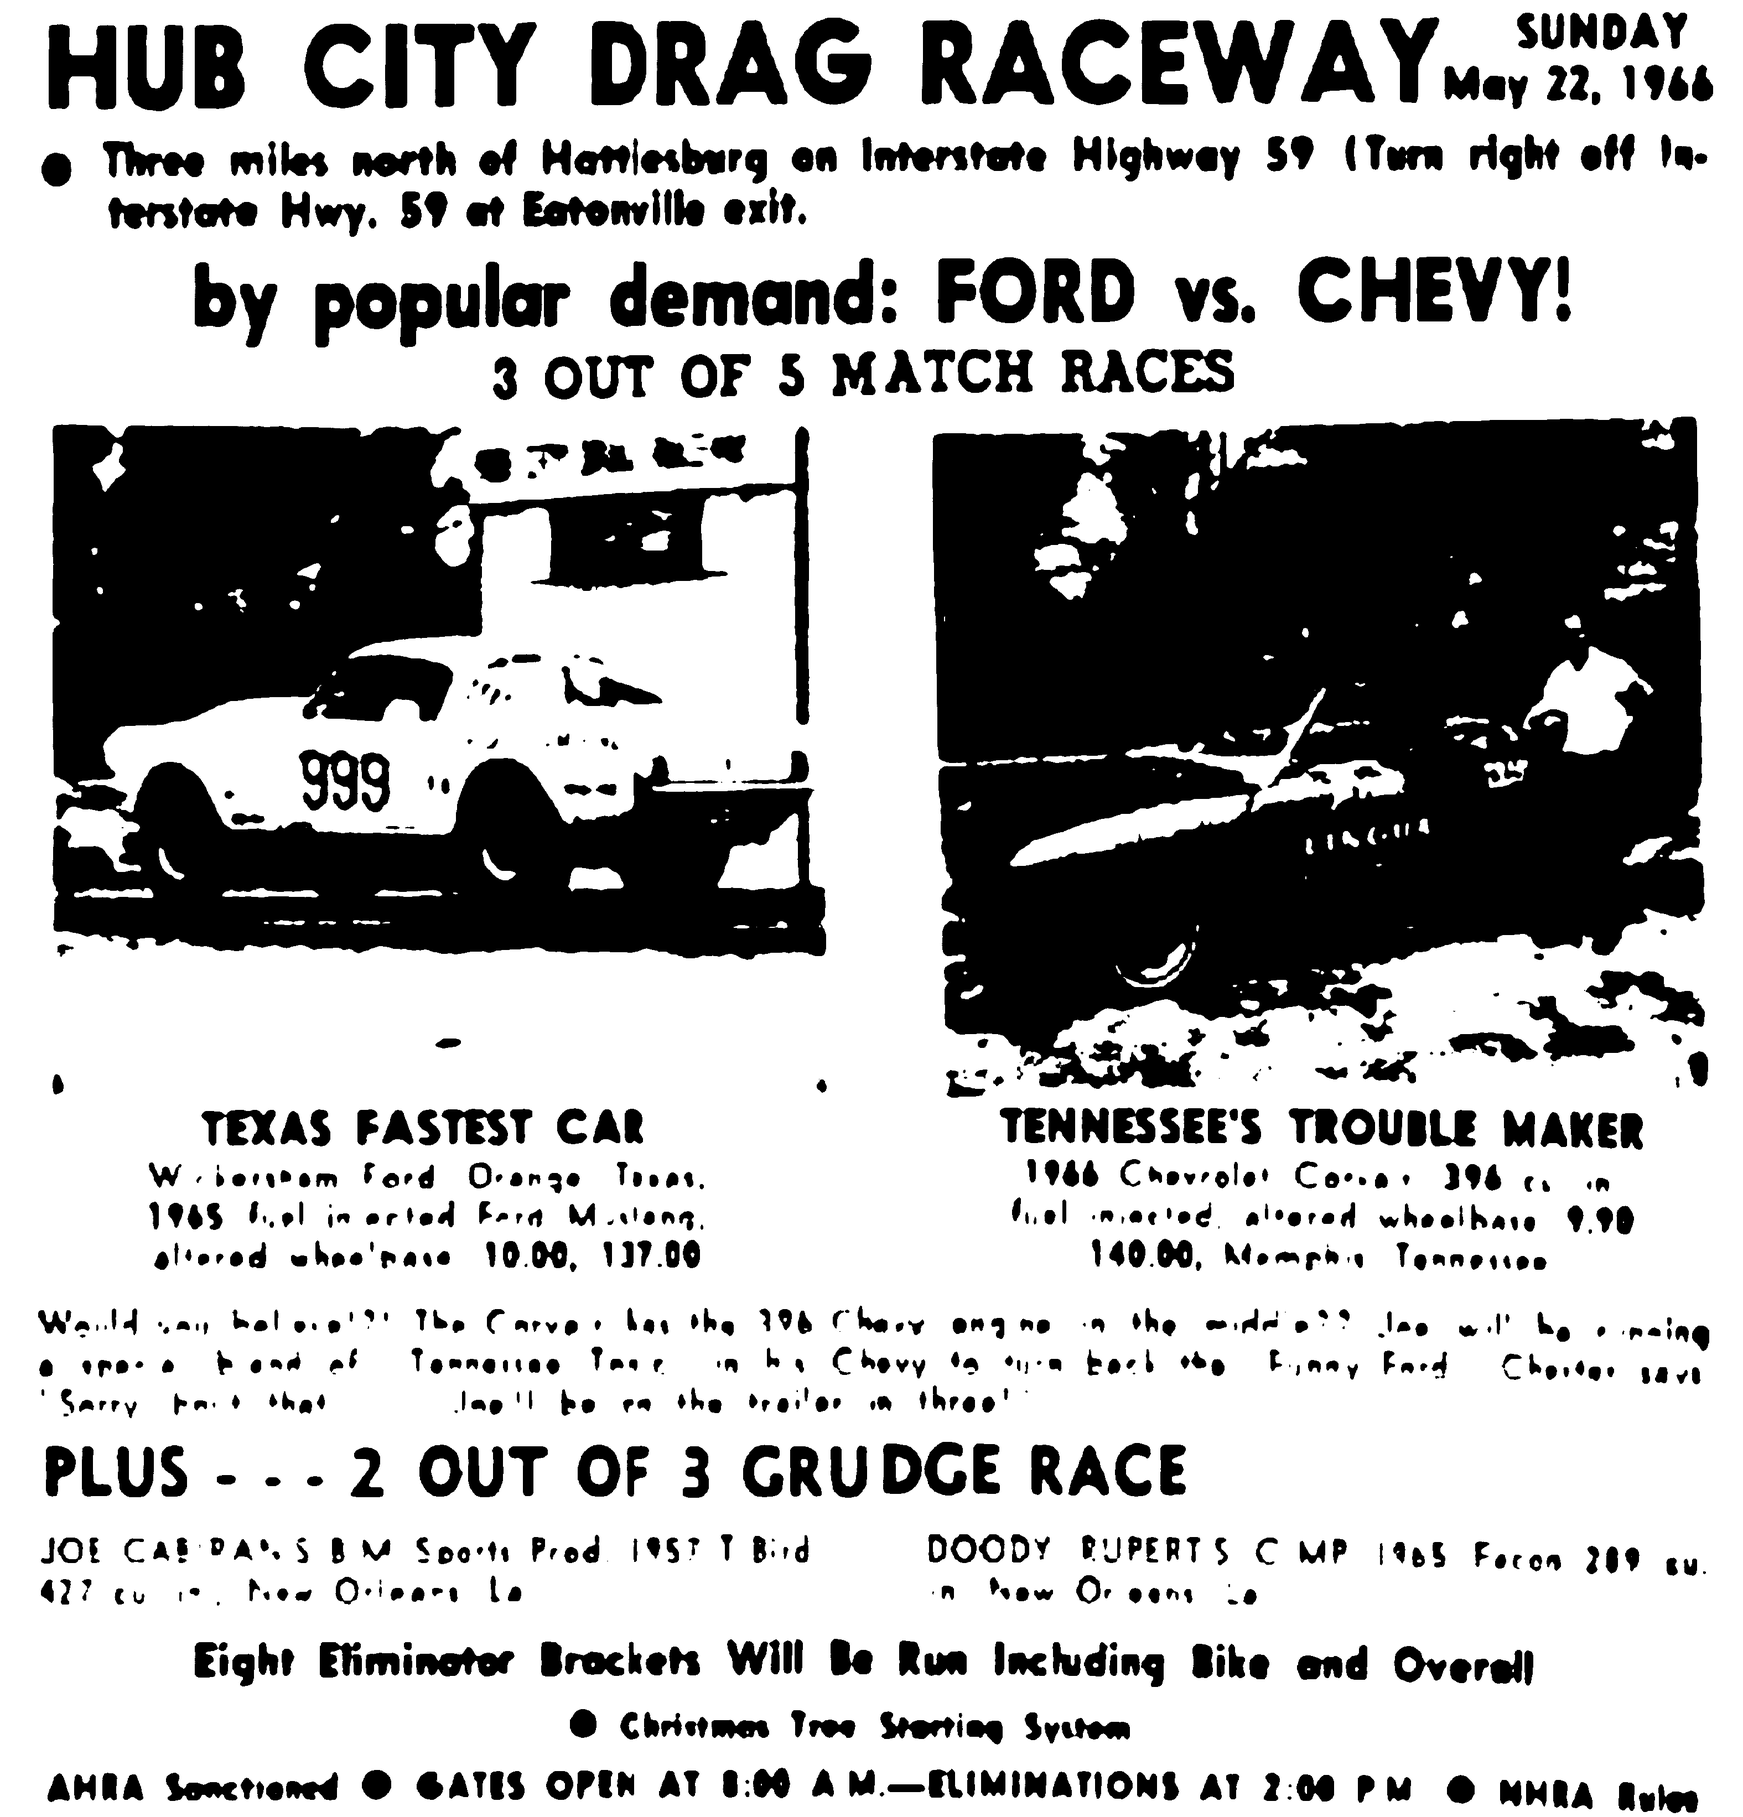
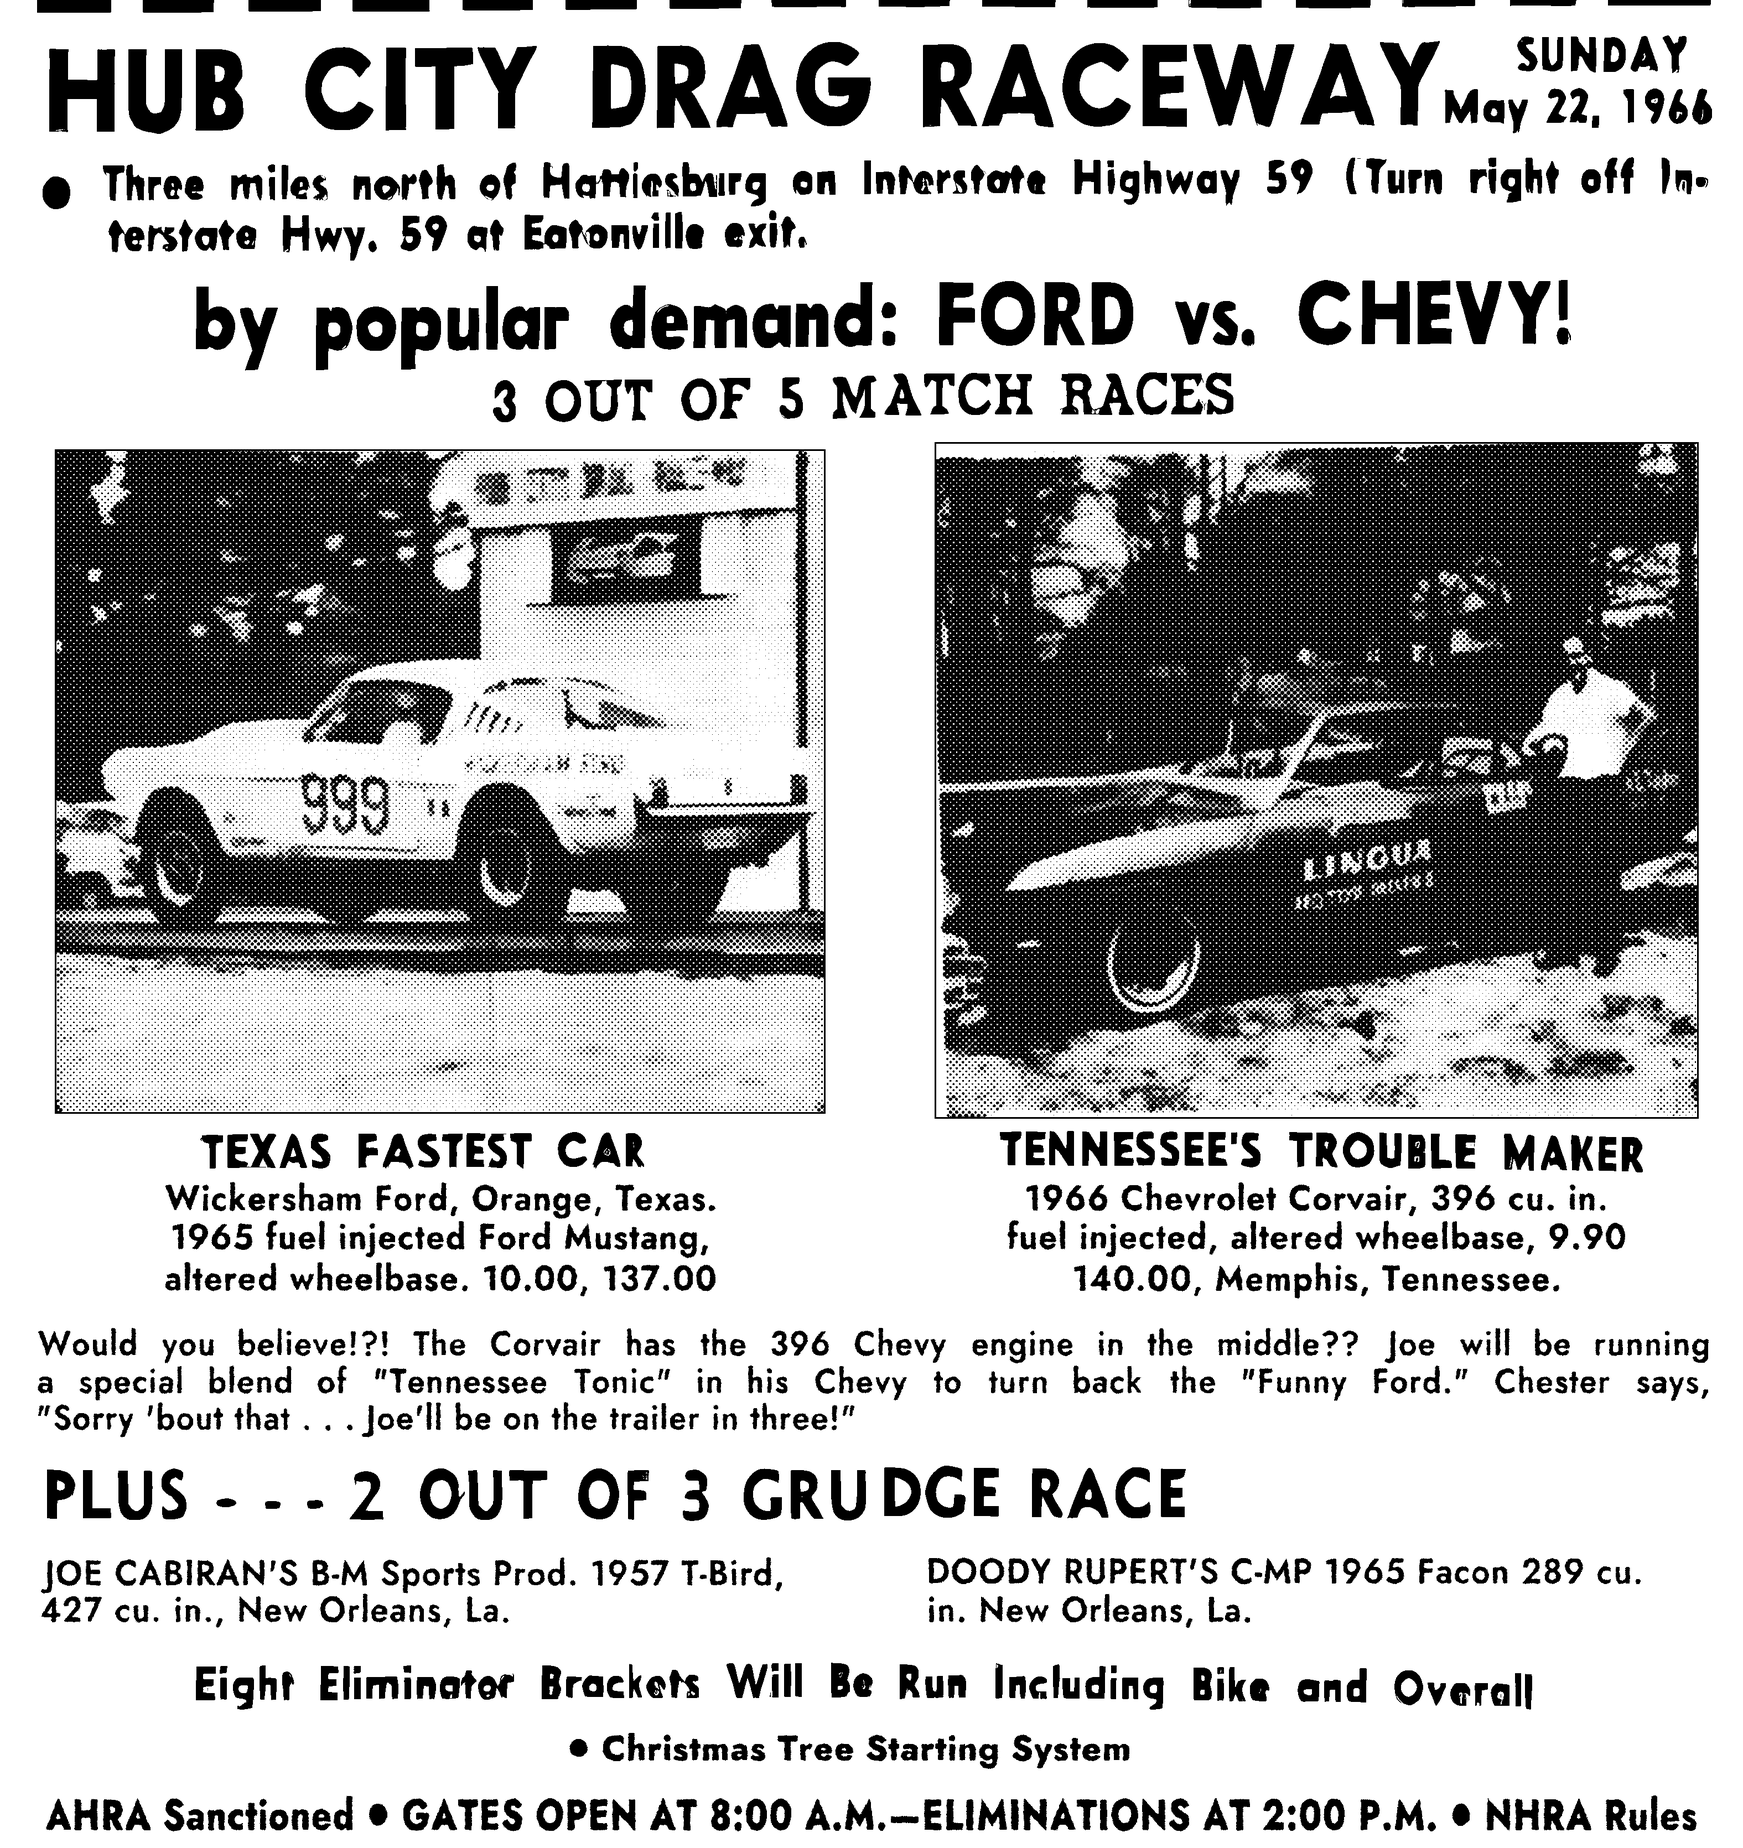
Hub City v2: locked newsprint rebuild pipeline (Real-ESRGAN + re-typeset + re-screen)
- Real-ESRGAN x4 anime (ncnn, CPU) keeps authentic large type
- small copy re-typeset in Jost (Futura-family match), metrics fitted
  per line to the original boxes, then roughened (ink spread + grain)
- photos: Real-ESRGAN x4plus -> descreen -> 8px-cell 45deg halftone
- 3150x3340 @300dpi binary alpha (10.5 x 11.1 in), black on white tee
- copy transcribed verbatim incl. the 1966 'Facon' typo

Claude-Session: https://claude.ai/code/session_01TqhzTg1EJZZfGMFmW7WiyP

Changed region(s): [[0.0, 0.0, 0.9956, 0.7765], [0.0311, 0.8386, 0.9956, 1.0], [0.7467, 0.9007, 0.8711, 0.9318]]

diff --git a/src/newsprint/newsprint.py b/src/newsprint/newsprint.py
@@ -1,0 +1,171 @@
+"""Newsprint rebuild toolkit (HQ, 2026-10-21).
+
+Pipeline B for FB-screenshot-quality newspaper ads:
+  1. Real-ESRGAN x4 (anime model) for large type  -> keep authentic letterforms
+  2. Re-typeset small copy in a matched face, metrics fitted to the original
+     line boxes (same string => same ink height/width)                 -> legible
+  3. Roughen rebuilt type (ink spread + edge grain) so it sits with the SR type
+  4. Photos: Real-ESRGAN x4plus -> grayscale -> deliberate re-screened halftone
+  5. Composite -> 1-bit, binary-alpha PNG at 300 dpi (+ potrace SVG downstream)
+"""
+import numpy as np, cv2
+from PIL import Image, ImageDraw, ImageFont
+
+FONTS = "/tmp/claude-0/-home-claude/2883d029-23a6-5e8e-ac19-37b93b8bd372/scratchpad/fonts"
+SS = 3  # supersample factor for text rendering
+
+
+def vfont(name, size, axes=None):
+    f = ImageFont.truetype(f"{FONTS}/{name}", int(size))
+    if axes:
+        names = [a["name"].decode() if isinstance(a["name"], bytes) else a["name"] for a in f.get_variation_axes()]
+        vals = []
+        for a, n in zip(f.get_variation_axes(), names):
+            key = {"Weight": "wght", "Width": "wdth", "Optical size": "opsz"}.get(n, n)
+            vals.append(axes.get(key, a["default"]))
+        f.set_variation_by_axes(vals)
+    return f
+
+
+BULLET = "●"
+
+
+def render_text(text, fontname, size, axes=None, tracking=0.0, xscale=1.0):
+    """Render text to a float ink mask (1=ink) at SS x size; returns (mask, ink_bbox).
+    BULLET (U+25CF) is drawn as a filled circle sized to the cap height.
+    xscale squeezes/stretches horizontally (for condensed faces without a width axis)."""
+    f = vfont(fontname, size * SS, axes)
+    S = size * SS
+    cap = f.getbbox("H")[3] - f.getbbox("H")[1]
+    top_cap = f.getbbox("H")[1]
+    blen = cap * 0.95
+    w = int(sum((blen if ch == BULLET else f.getlength(ch)) for ch in text) + abs(tracking) * S * len(text) + S * 2)
+    h = int(S * 2.2)
+    im = Image.new("L", (w, h), 0)
+    d = ImageDraw.Draw(im)
+    x = S * 0.5; y = S * 0.4
+    for ch in text:
+        if ch == BULLET:
+            r = cap * 0.36; cy = y + top_cap + cap / 2; cx = x + blen / 2
+            d.ellipse((cx - r, cy - r, cx + r, cy + r), fill=255)
+            x += blen + tracking * S
+        else:
+            d.text((x, y), ch, font=f, fill=255)
+            x += f.getlength(ch) + tracking * S
+    a = np.asarray(im, np.float32) / 255.0
+    if xscale != 1.0:
+        a = cv2.resize(a, (max(1, int(a.shape[1] * xscale)), a.shape[0]), interpolation=cv2.INTER_AREA)
+    ys, xs = np.where(a > 0.5)
+    return a, (xs.min(), ys.min(), xs.max() + 1, ys.max() + 1)
+
+
+def fit_xscale(text, fontname, box_w, box_h, axes=None, tracking=0.0, xs_range=(0.55, 1.2)):
+    """Fit size by ink height, then horizontal scale by ink width. Returns (size, xscale)."""
+    lo, hi = 4.0, 400.0
+    for _ in range(26):
+        mid = (lo + hi) / 2
+        _, (x0, y0, x1, y1) = render_text(text, fontname, mid, axes, tracking)
+        if (y1 - y0) / SS > box_h: hi = mid
+        else: lo = mid
+    _, (x0, y0, x1, y1) = render_text(text, fontname, lo, axes, tracking)
+    xs = box_w / ((x1 - x0) / SS)
+    return lo, float(np.clip(xs, *xs_range))
+
+
+def fit_line(text, fontname, box_w, box_h, axes=None, wdth_range=None, tracking=0.0):
+    """Find size (by ink height) then width axis (by ink width) to match a measured box."""
+    axes = dict(axes or {})
+    # size from height
+    lo, hi = 4.0, 400.0
+    for _ in range(30):
+        mid = (lo + hi) / 2
+        _, (x0, y0, x1, y1) = render_text(text, fontname, mid, axes, tracking)
+        if (y1 - y0) / SS > box_h: hi = mid
+        else: lo = mid
+    size = lo
+    if wdth_range:
+        lo_w, hi_w = wdth_range
+        for _ in range(18):
+            midw = (lo_w + hi_w) / 2
+            axes["wdth"] = midw
+            _, (x0, y0, x1, y1) = render_text(text, fontname, size, axes, tracking)
+            if (x1 - x0) / SS > box_w: hi_w = midw
+            else: lo_w = midw
+        axes["wdth"] = lo_w
+    return size, axes
+
+
+def place(canvas_ink, text, fontname, size, axes, x0, y0, x1=None, align="left", justify_w=None, tracking=0.0, xscale=1.0):
+    """Composite rendered text into canvas_ink (float, 1=ink). y0 = top of ink box."""
+    if justify_w:
+        words = text.split(" ")
+        rendered = [render_text(w_, fontname, size, axes, tracking, xscale) for w_ in words]
+        widths = [(bb[2] - bb[0]) / SS for _, bb in rendered]
+        gap = (justify_w - sum(widths)) / max(1, len(words) - 1)
+        # common vertical reference: render full line once to get its top
+        _, fbb = render_text(text, fontname, size, axes, tracking, xscale)
+        x = x0
+        for (a, bb), wpx in zip(rendered, widths):
+            # align each word on the full-line baseline: words share the same drawing origin y,
+            # so offset by (bb_top_word - full_top)
+            sub = a[fbb[1]:fbb[3], bb[0]:bb[2]]
+            _blit(canvas_ink, sub, x, y0)
+            x += wpx + gap
+        return
+    a, bb = render_text(text, fontname, size, axes, tracking, xscale)
+    sub = a[bb[1]:bb[3], bb[0]:bb[2]]
+    wpx = sub.shape[1] / SS
+    if align == "center" and x1 is not None:
+        x0 = x0 + ((x1 - x0) - wpx) / 2
+    elif align == "right" and x1 is not None:
+        x0 = x1 - wpx
+    _blit(canvas_ink, sub, x0, y0)
+
+
+def _blit(canvas, sub_ss, x0, y0):
+    h = max(1, int(round(sub_ss.shape[0] / SS))); w = max(1, int(round(sub_ss.shape[1] / SS)))
+    small = cv2.resize(sub_ss, (w, h), interpolation=cv2.INTER_AREA)
+    x0 = int(round(x0)); y0 = int(round(y0))
+    H, W = canvas.shape
+    ys, xs = slice(max(0, y0), min(H, y0 + h)), slice(max(0, x0), min(W, x0 + w))
+    canvas[ys, xs] = np.maximum(canvas[ys, xs], small[ys.start - y0: ys.stop - y0, xs.start - x0: xs.stop - x0])
+
+
+def roughen(ink, spread=0.8, grain=0.10, seed=7):
+    """Ink spread + edge grain on a float ink layer; returns boolean ink."""
+    rng = np.random.default_rng(seed)
+    b = cv2.GaussianBlur(ink, (0, 0), spread)
+    lowf = cv2.GaussianBlur(rng.standard_normal(ink.shape).astype(np.float32), (0, 0), 2.5)
+    lowf /= (lowf.std() + 1e-6)
+    hif = rng.standard_normal(ink.shape).astype(np.float32)
+    v = b + grain * (0.6 * lowf + 0.4 * hif) * (b * (1 - b) * 4)  # noise only near edges
+    return v > 0.45
+
+
+def halftone(gray, cell=7.0, angle=45.0, gamma=1.0):
+    """Round-dot AM halftone. gray: float 0..1 (1 = white). Returns boolean ink."""
+    H, W = gray.shape
+    yy, xx = np.mgrid[0:H, 0:W].astype(np.float32)
+    t = np.deg2rad(angle)
+    u = (xx * np.cos(t) + yy * np.sin(t)) / cell
+    v = (-xx * np.sin(t) + yy * np.cos(t)) / cell
+    du = u - np.floor(u) - 0.5; dv = v - np.floor(v) - 0.5
+    d = np.sqrt(du * du + dv * dv)  # 0 center .. ~0.707 corner
+    darkness = np.clip(1.0 - gray, 0, 1) ** gamma
+    # dot radius so that covered area fraction ~= darkness (circle up to r=0.5, then merges)
+    r = np.sqrt(darkness / np.pi)
+    return d < r
+
+
+def to_rgba_ink(ink_bool, rgb=(0, 0, 0)):
+    H, W = ink_bool.shape
+    out = np.zeros((H, W, 4), np.uint8)
+    out[..., 0], out[..., 1], out[..., 2] = rgb
+    out[..., 3] = np.where(ink_bool, 255, 0)
+    return Image.fromarray(out)
+
+
+def mock(ink_bool, bg=(255, 255, 255), fg=(0, 0, 0), width=1000):
+    H, W = ink_bool.shape
+    m = np.empty((H, W, 3), np.uint8); m[:] = bg; m[ink_bool] = fg
+    return cv2.resize(cv2.cvtColor(m, cv2.COLOR_RGB2BGR), (width, int(H * width / W)), interpolation=cv2.INTER_AREA)

diff --git a/src/newsprint/build_hubcity.py b/src/newsprint/build_hubcity.py
@@ -1,0 +1,99 @@
+import sys, os, numpy as np, cv2
+sys.path.insert(0, "/tmp/claude-0/-home-claude/2883d029-23a6-5e8e-ac19-37b93b8bd372/scratchpad/hb/lib")
+from newsprint import *
+
+D = "/tmp/claude-0/-home-claude/2883d029-23a6-5e8e-ac19-37b93b8bd372/scratchpad/hb/hubcity"
+gray = cv2.imread(f"{D}/sr_gray_3150.png", 0).astype(np.float32) / 255.0
+H_CUT = 3340
+gray = gray[:H_CUT]
+base = gray < (140 / 255.0)            # SR type, hard threshold
+H, W = base.shape
+
+# ---- regions to rebuild (white-out in SR layer)
+PHOTO_L = (99, 812, 1492, 2013)
+PHOTO_R = (1689, 799, 3070, 2022)
+wipe = [(0, 2128, W, 2356), (0, 2393, W, 2612), (0, 2806, W, 2957), (0, 3122, W, 3203), (0, 3228, W, 3330)]
+keep = base.copy()
+for (x0, y0, x1, y1) in wipe + [PHOTO_L, PHOTO_R]:
+    keep[max(0,y0-8):y1+8, max(0,x0-8):x1+16] = False
+
+# ---- re-typeset small copy (Futura-family match: Jost)
+BODY = "Jost[wght].ttf"
+TR = 0.035
+txt = np.zeros((H, W), np.float32)
+cap_lines = [
+    ("Wickersham Ford, Orange, Texas.", 270, 1272, 2137, 2202),
+    ("1965 fuel injected Ford Mustang,", 270, 1270, 2206, 2273),
+    ("altered wheelbase. 10.00, 137.00", 279, 1262, 2282, 2346),
+    ("1966 Chevrolet Corvair, 396 cu. in.", 1855, 2928, 2137, 2202),
+    ("fuel injected, altered wheelbase, 9.90", 1829, 2993, 2206, 2273),
+    ("140.00, Memphis, Tennessee.", 1972, 2810, 2282, 2346),
+]
+AX = {"wght": 640}
+fits = [fit_xscale(t, BODY, x1 - x0, y1 - y0, AX, TR) for t, x0, x1, y0, y1 in cap_lines]
+print("caption fits", [(round(a, 1), round(b, 2)) for a, b in fits])
+s_med = float(np.median([f[0] for f in fits])); xs_med = float(np.median([f[1] for f in fits]))
+for (t, x0, x1, y0, y1) in cap_lines:
+    cx0, cx1 = (99, 1492) if x0 < 1500 else (1689, 3070)
+    place(txt, t, BODY, s_med, AX, cx0, y0, cx1, align="center", tracking=TR, xscale=xs_med)
+
+para = [
+    'Would you believe!?! The Corvair has the 396 Chevy engine in the middle?? Joe will be running',
+    'a special blend of "Tennessee Tonic" in his Chevy to turn back the "Funny Ford." Chester says,',
+    '"Sorry \'bout that . . . Joe\'ll be on the trailer in three!"',
+]
+P_AX = {"wght": 560}
+for i, line in enumerate(para):
+    y0 = 2401 + i * 67
+    if i < 2: place(txt, line, BODY, s_med * 0.96, P_AX, 69, y0, justify_w=3087 - 69, tracking=TR, xscale=xs_med)
+    else:     place(txt, line, BODY, s_med * 0.96, P_AX, 69, y0, tracking=TR, xscale=xs_med)
+
+ent = [("JOE CABIRAN'S B-M Sports Prod. 1957 T-Bird,", 73, 2815, 1480),
+       ("427 cu. in., New Orleans, La.", 73, 2881, None),
+       ("DOODY RUPERT'S C-MP 1965 Facon 289 cu.", 1679, 2815, 3087),
+       ("in. New Orleans, La.", 1679, 2881, None)]
+for t, x0, y0, x1 in ent:
+    place(txt, t, BODY, s_med, {"wght": 560}, x0, y0, tracking=TR, xscale=xs_med)
+
+xm = BULLET + " Christmas Tree Starting System"
+s_x, xs_x = fit_xscale(xm, BODY, 2040 - 1030, 3197 - 3132, {"wght": 760}, 0.02)
+place(txt, xm, BODY, s_x, {"wght": 760}, 1030, 3132, 2040, align="center", tracking=0.02, xscale=xs_x)
+ahra = "AHRA Sanctioned " + BULLET + " GATES OPEN AT 8:00 A.M.—ELIMINATIONS AT 2:00 P.M. " + BULLET + " NHRA Rules"
+s_a, xs_a = fit_xscale(ahra, BODY, 3066 - 82, 64, {"wght": 780}, 0.03)
+place(txt, ahra, BODY, s_a, {"wght": 780}, 82, 3246, tracking=0.03, xscale=xs_a)
+print("footer fits", round(s_x, 1), round(xs_x, 2), round(s_a, 1), round(xs_a, 2))
+
+txt_ink = roughen(txt, spread=1.3, grain=0.22)
+
+# ---- photos: re-screened halftone from photo-model upscale
+ph = cv2.imread(f"{D}/photos_x4plus.png", 0)
+photo_ink = np.zeros((H, W), bool)
+if ph is not None:
+    phf = ph.astype(np.float32) / 255.0
+    # photos_raw was raw rows 270..730 at full width 1115; x4 -> map raw coords to 3150 space
+    sx = W / 1115.0
+    for (x0, y0, x1, y1) in (PHOTO_L, PHOTO_R):
+        rx0, rx1 = x0 / sx, x1 / sx
+        ry0, ry1 = y0 / sx - 270, y1 / sx - 270
+        sub = phf[int(ry0 * 4):int(ry1 * 4), int(rx0 * 4):int(rx1 * 4)]
+        sub = cv2.resize(sub, (x1 - x0, y1 - y0), interpolation=cv2.INTER_AREA)
+        sub = cv2.GaussianBlur(sub, (0, 0), 1.2)               # descreen residue
+        lo, hi = np.percentile(sub, 2), np.percentile(sub, 98)  # stretch tones
+        sub = np.clip((sub - lo) / (hi - lo + 1e-6), 0, 1)
+        dots = halftone(sub, cell=8.0, angle=45, gamma=1.05)
+        photo_ink[y0:y1, x0:x1] = dots
+        # keep a crisp 3px keyline like the original photo frames
+        photo_ink[y0:y0 + 3, x0:x1] = True; photo_ink[y1 - 3:y1, x0:x1] = True
+        photo_ink[y0:y1, x0:x0 + 3] = True; photo_ink[y0:y1, x1 - 3:x1] = True
+else:
+    print("WARN no photo upscale yet; using SR threshold for photos")
+    for (x0, y0, x1, y1) in (PHOTO_L, PHOTO_R):
+        photo_ink[y0:y1, x0:x1] = base[y0:y1, x0:x1]
+
+final = keep | txt_ink | photo_ink
+out = f"{D}/hubcity_ad_front_v2.png"
+to_rgba_ink(final).save(out, dpi=(300, 300))
+cv2.imwrite(f"{D}/hubcity_v2_view.jpg", mock(final, width=1100), [cv2.IMWRITE_JPEG_QUALITY, 90])
+# detail crops at 100% for proofing
+cv2.imwrite(f"{D}/hubcity_v2_detail.png", np.where(final[2040:2960, 0:1600], 0, 255).astype(np.uint8))
+print("saved", out, final.shape, "in:", round(W / 300, 2), "x", round(H / 300, 2))

diff --git a/src/newsprint/resr_ncnn.py b/src/newsprint/resr_ncnn.py
@@ -1,0 +1,36 @@
+"""Real-ESRGAN via ncnn on CPU, tiled. Usage: python3 resr.py in.png out.png [model] [scale] [tile]"""
+import sys, time, numpy as np, cv2, ncnn
+MD = "/tmp/claude-0/-home-claude/2883d029-23a6-5e8e-ac19-37b93b8bd372/scratchpad/sr/resr/models"
+inp, outp = sys.argv[1], sys.argv[2]
+model = sys.argv[3] if len(sys.argv) > 3 else "realesrgan-x4plus-anime"
+scale = int(sys.argv[4]) if len(sys.argv) > 4 else 4
+tile = int(sys.argv[5]) if len(sys.argv) > 5 else 160
+pad = 10
+net = ncnn.Net()
+net.opt.use_vulkan_compute = False
+net.opt.num_threads = 2
+net.load_param(f"{MD}/{model}.param"); net.load_model(f"{MD}/{model}.bin")
+img = cv2.imread(inp, cv2.IMREAD_COLOR)
+rgb = cv2.cvtColor(img, cv2.COLOR_BGR2RGB).astype(np.float32) / 255.0
+H, W, _ = rgb.shape
+out = np.zeros((H*scale, W*scale, 3), np.float32)
+t0 = time.time(); n = 0
+ty = (H + tile - 1)//tile; tx = (W + tile - 1)//tile
+for iy in range(ty):
+    for ix in range(tx):
+        y0, x0 = iy*tile, ix*tile
+        y1, x1 = min(y0+tile, H), min(x0+tile, W)
+        py0, px0 = max(y0-pad, 0), max(x0-pad, 0)
+        py1, px1 = min(y1+pad, H), min(x1+pad, W)
+        patch = np.ascontiguousarray(rgb[py0:py1, px0:px1].transpose(2,0,1))
+        ex = net.create_extractor()
+        ex.input("data", ncnn.Mat(patch))
+        _, o = ex.extract("output")
+        o = np.array(o).transpose(1,2,0)
+        oy0, ox0 = (y0-py0)*scale, (x0-px0)*scale
+        out[y0*scale:y1*scale, x0*scale:x1*scale] = o[oy0:oy0+(y1-y0)*scale, ox0:ox0+(x1-x0)*scale]
+        n += 1
+    print(f"row {iy+1}/{ty} {time.time()-t0:.0f}s", flush=True)
+res = cv2.cvtColor((np.clip(out,0,1)*255).round().astype(np.uint8), cv2.COLOR_RGB2BGR)
+cv2.imwrite(outp, res)
+print("done", res.shape, f"{time.time()-t0:.0f}s")
